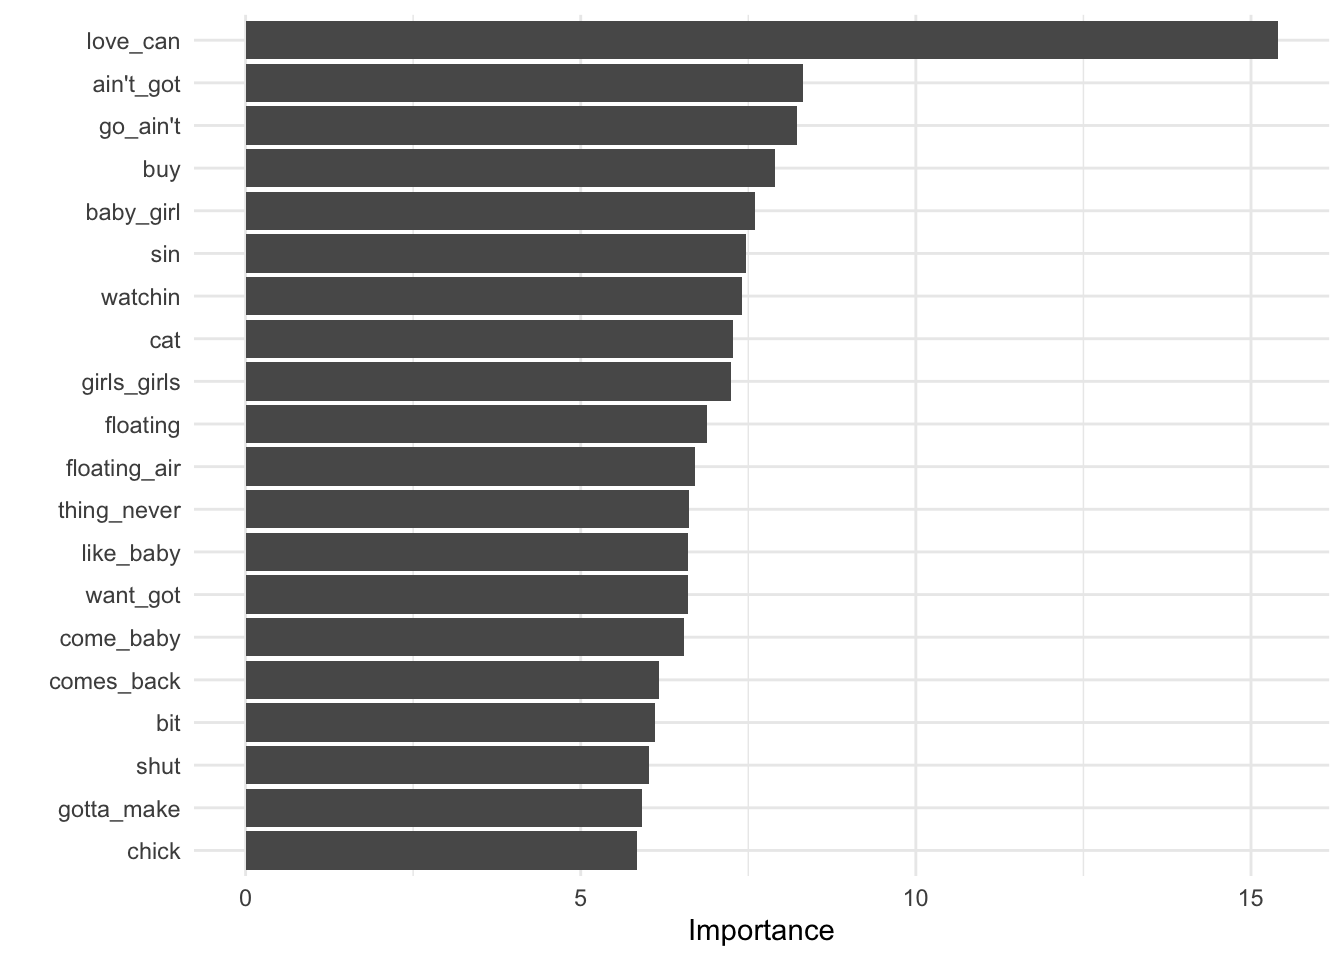
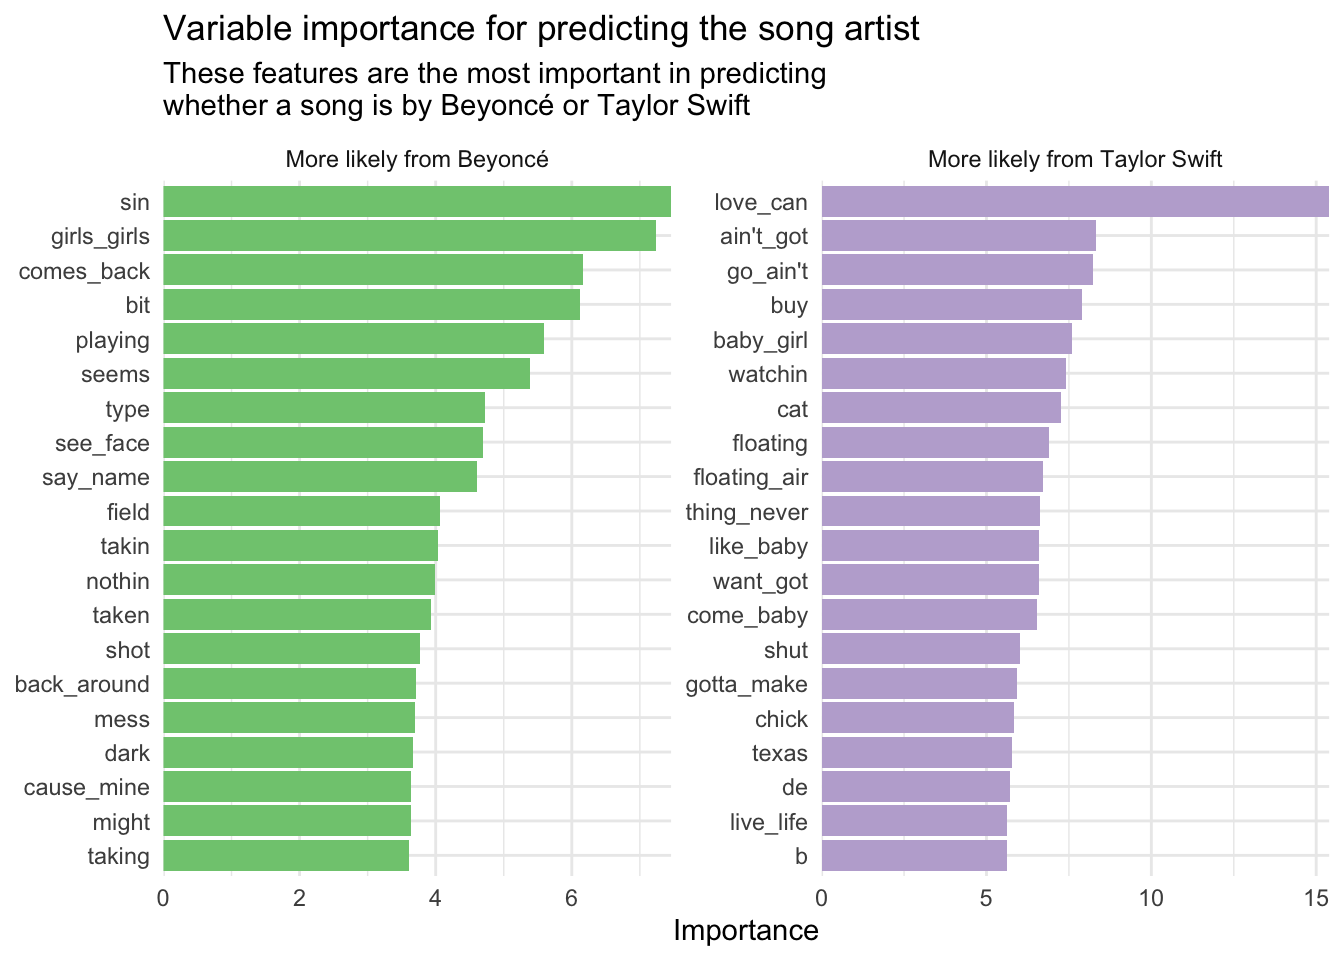
Add some analysis to the predicting song artist exercises

diff --git a/static/slides/a-deep-dive-into-r-markdown/index.html b/static/slides/a-deep-dive-into-r-markdown/index.html
@@ -95,7 +95,7 @@ youth %&gt;%
 * Render `gun-deaths.Rmd` as an HTML document
 * Add text describing the frequency polygon
 
-<div class="countdown" id="timer_61df2e58" style="right:0;bottom:0;" data-warnwhen="0">
+<div class="countdown" id="timer_61df2e54" style="right:0;bottom:0;" data-warnwhen="0">
 <code class="countdown-time"><span class="countdown-digits minutes">05</span><span class="countdown-digits colon">:</span><span class="countdown-digits seconds">00</span></code>
 </div>
 
@@ -153,7 +153,7 @@ We have data about 100798 individuals killed by guns. Only 15687 are older than 
 * Set `echo = FALSE` as a global option
 * Enable caching as a global option and render the document. Look at the file structure for the cache. Now render the document again. Does it run faster?
 
-<div class="countdown" id="timer_61df2d7f" style="right:0;bottom:0;" data-warnwhen="0">
+<div class="countdown" id="timer_61df2e7c" style="right:0;bottom:0;" data-warnwhen="0">
 <code class="countdown-time"><span class="countdown-digits minutes">07</span><span class="countdown-digits colon">:</span><span class="countdown-digits seconds">00</span></code>
 </div>
 
@@ -233,7 +233,7 @@ output:
 * Use the `"cerulean"` theme
 * Modify the figures so they are 8x6
 
-<div class="countdown" id="timer_61df2cb7" style="right:0;bottom:0;" data-warnwhen="0">
+<div class="countdown" id="timer_61df2e17" style="right:0;bottom:0;" data-warnwhen="0">
 <code class="countdown-time"><span class="countdown-digits minutes">07</span><span class="countdown-digits colon">:</span><span class="countdown-digits seconds">00</span></code>
 </div>
 
@@ -277,7 +277,7 @@ rmarkdown::render("my-document.Rmd", output_format = "all")
 * Render `gun-deaths.Rmd` as both an HTML document and a PDF document
     * If you do not have `\(\LaTeX\)` installed, render as an HTML document and a Word document
 
-<div class="countdown" id="timer_61df2c6b" style="right:0;bottom:0;" data-warnwhen="0">
+<div class="countdown" id="timer_61df2d2d" style="right:0;bottom:0;" data-warnwhen="0">
 <code class="countdown-time"><span class="countdown-digits minutes">05</span><span class="countdown-digits colon">:</span><span class="countdown-digits seconds">00</span></code>
 </div>
 

diff --git a/content/notes/predicting-song-artist/index.md b/content/notes/predicting-song-artist/index.md
@@ -38,7 +38,13 @@ usethis::use_course("uc-cfss/predicting-song-artist")
 
 {{% /callout %}}
 
+{{< figure src="beyonce-taylor-swift.jpeg" caption="Beyoncé and Taylor Swift at the 2009 MTV Video Music Awards." >}}
+
+Beyoncé and Taylor Swift are two iconic singer/songwriters from the past twenty years. While they have achieved worldwide recognition for their contributions to music, they also have quite diverse musical genres and themes. For example, much of Taylor Swift's early work is commonly associated with [love and heartbreak](https://en.wikipedia.org/wiki/Taylor_Swift#Songwriting), while Beyoncé's career has been noted for many compositions surrounding [female-empowerment](https://en.wikipedia.org/wiki/Beyonc%C3%A9#Songwriting). Based purely on the lyrics, can we predict if a song is by Beyoncé or Taylor Swift?
+
 ## Import data
+
+Our data comes from [#TidyTuesday](https://github.com/rfordatascience/tidytuesday/tree/master/data/2020/2020-09-29) which compiled individual song lyrics from each singer's discography as of September 29, 2020. Here we import the data files and do some light cleaning to standardize each file.^[Importantly, the Beyoncé lyrics are originally stored as one row per line per song whereas we need them stored as one row per song for modeling purposes.]
 
 
 ```r
@@ -106,6 +112,24 @@ taylor_swift_clean <- taylor_swift_lyrics %>%
 # combine into single data file
 lyrics <- bind_rows(beyonce_clean, taylor_swift_clean) %>%
   mutate(artist = factor(artist))
+lyrics
+```
+
+```
+## # A tibble: 523 × 3
+##    artist  song_title                         lyrics                            
+##    <fct>   <chr>                              <chr>                             
+##  1 Beyoncé Ego (Remix) (Ft. Kanye West)       "I got a big ego (Ha ha ha) I’m s…
+##  2 Beyoncé Irreplaceable (Rap Version) (Ft. … "To the left To the left To the l…
+##  3 Beyoncé Smash Into You                     "Head down As I watch my feet tak…
+##  4 Beyoncé Cards Never Lie (Ft. Rah Digga & … "The cards never lie, my last bre…
+##  5 Beyoncé If Looks Could Kill (You Would Be… "Sweetness flowing like a faucet,…
+##  6 Beyoncé The Last Great Seduction (Ft. Mek… "You know you really, really, rea…
+##  7 Beyoncé Check on It (LP Version) (Ft. Sli… "Swizz Beatz DC, Destiny Child (S…
+##  8 Beyoncé Crazy in Love (Ft. JAY-Z)          "Yes! So crazy right now! Most in…
+##  9 Beyoncé Déjà Vu (Ft. JAY-Z)                "Bass (Uh) Hi-hat (Uh) 808 (Uh) J…
+## 10 Beyoncé Me, Myself & I (Remix) (Ft. Ghost… "Ahh, ahh, ahh all the ladies if …
+## # … with 513 more rows
 ```
 
 ## Preprocess the dataset for modeling
@@ -116,6 +140,8 @@ lyrics <- bind_rows(beyonce_clean, taylor_swift_clean) %>%
 - Split the training set into 10 cross-validation folds
 
 {{< spoiler text="Click for the solution" >}}
+
+[`rsample`](/notes/resampling/) is the go-to package for this resampling.
 
 
 ```r
@@ -152,7 +178,7 @@ lyrics_folds <- vfold_cv(data = lyrics_train, strata = artist)
         )
         ```
         
-- Downsample the observations so there are an equal number of songs by Beyoncé and Taylor Swift in the analysis set
+- [Downsample](/notes/supervised-text-classification/#concerns-regarding-multiclass-classification) the observations so there are an equal number of songs by Beyoncé and Taylor Swift in the analysis set
 
 {{< spoiler text="Click for the solution" >}}
 
@@ -272,38 +298,11 @@ conf_mat_resampled(x = ranger_cv, tidy = FALSE) %>%
 
 <img src="{{< blogdown/postref >}}index_files/figure-html/ranger-metrics-2.png" width="672" />
 
+Overall the random forest model is reasonable at distinguishing Beyoncé from Taylor Swift based purely on the lyrics. A ROC AUC value of 0.9491533 is pretty good for a binary classification task. We can also see the model more accurately predicts Beyoncé's songs compared to Taylor Swift. Part of this is because Beyoncé's catalog is much larger (391 songs compared to only 132 for Taylor Swift), but this should have been accounted for through the downsampling. Even after this procedure, the model still has better sensitivity to Beyoncé.
+
 {{< /spoiler >}}
 
-### Variable importance
 
-Describe a variable importance plot and interpret the results. Don't expect students to write this themselves
-
-
-```r
-# fit the random forest model using the full training set and evaluate using the test set
-ranger_final <- ranger_workflow %>%
-  last_fit(lyrics_split)
-collect_metrics(ranger_final)
-```
-
-```
-## # A tibble: 2 × 4
-##   .metric  .estimator .estimate .config             
-##   <chr>    <chr>          <dbl> <chr>               
-## 1 accuracy binary         0.771 Preprocessor1_Model1
-## 2 roc_auc  binary         0.925 Preprocessor1_Model1
-```
-
-```r
-# generate variable importance plot
-ranger_final %>%
-  # extract the underlying parsnip model fit
-  extract_fit_parsnip() %>%
-  # draw the variable importance plot
-  vip()
-```
-
-<img src="{{< blogdown/postref >}}index_files/figure-html/ranger-vip-1.png" width="672" />
 
 ## Penalized regression
 
@@ -438,6 +437,8 @@ show_best(x = glmnet_tune, metric = "roc_auc")
 ## 5 0.0000113        0 roc_auc binary     0.884    10  0.0268 Preprocessor1_Model…
 ```
 
+Based on the ROC AUC, any penalty parameter with a mixture of `0` provides the optimal model performance. Though compared to the random forest model, the penalized regression approach consistently generates lower ROC AUC scores. This is likely because penalized regression models are a form of generalized linear models which assume linear, additive relationships between the predictors (i.e. n-grams) and the outcome of interest. Random forests are built from decision trees which are highly interactive and non-linear, so they allow for more flexible relationships between the predictors and outcome.
+
 {{< /spoiler >}}
 
 ### Fit the best model
@@ -467,24 +468,60 @@ collect_metrics(glmnet_final)
 ## 2 roc_auc  binary         0.859 Preprocessor1_Model1
 ```
 
+Not surprisingly the test set performance is slightly lower than the cross-validated metrics, however it still offers decent performance.
+
+0.8593074
+
 {{< /spoiler >}}
 
 ### Variable importance
 
-What were the most important 20 n-grams to predicting Beyoncé or Taylor Swift?
+Beyond predictive power, we can analyze which n-grams contribute most strongly to the model's predictions. Here we use the [`vip`](https://koalaverse.github.io/vip/index.html) and `vi()` to calculate the importance score for each n-gram, then visualize them using a bar plot.
 
 
 ```r
-# which n-grams were most important to generating predictions?
-glmnet_final %>%
-  extract_fit_parsnip() %>%
-  vip(num_features = 20)
+# extract parnsip model fit
+glmnet_imp <- extract_fit_parsnip(glmnet_final) %>%
+  # calculate variable importance for the specific penalty parameter used
+  vi(lambda = glmnet_best$penalty)
+
+# clean up the data frame for visualization
+glmnet_imp %>%
+  mutate(
+    Sign = case_when(
+      Sign == "POS" ~ "More likely from Beyoncé",
+      Sign == "NEG" ~ "More likely from Taylor Swift"
+    ),
+    Importance = abs(Importance)
+  ) %>%
+  group_by(Sign) %>%
+  # extract 20 most important n-grams for each artist
+  slice_max(order_by = Importance, n = 20) %>%
+  ggplot(mapping = aes(
+    x = Importance,
+    y = fct_reorder(Variable, Importance),
+    fill = Sign
+  )) +
+  geom_col(show.legend = FALSE) +
+  scale_x_continuous(expand = c(0, 0)) +
+  scale_fill_brewer(type = "qual") +
+  facet_wrap(facets = vars(Sign), scales = "free") +
+  labs(
+    y = NULL,
+    title = "Variable importance for predicting the song artist",
+    subtitle = "These features are the most important in predicting\nwhether a song is by Beyoncé or Taylor Swift"
+  )
 ```
 
 <img src="{{< blogdown/postref >}}index_files/figure-html/glmnet-vip-1.png" width="672" />
 
+This helps provide facial validity for the model's predictions. Not surprisingly, most of the n-grams relevant to Taylor Swift involve "love" and "baby", whereas "girls girls" is likely generalized from "Run the World (Girls)".
+
+{{< youtube id="VBmMU_iwe6U" title="Beyoncé - Run the World (Girls) (Official Video)" >}}
+
 ## Acknowledgments
 
+- Exercise inspired by the [#TidyTuesday challenge on September 29, 2020](https://github.com/rfordatascience/tidytuesday/tree/master/data/2020/2020-09-29).
 
 ## Session Info
 
@@ -539,7 +576,6 @@ devtools::session_info()
 ##  ellipsis       0.3.2      2021-04-29 [1] CRAN (R 4.1.0)
 ##  evaluate       0.14       2019-05-28 [1] CRAN (R 4.1.0)
 ##  fansi          0.5.0      2021-05-25 [1] CRAN (R 4.1.0)
-##  farver         2.1.0      2021-02-28 [1] CRAN (R 4.1.0)
 ##  fastmap        1.1.0      2021-01-25 [1] CRAN (R 4.1.0)
 ##  fastmatch      1.1-3      2021-07-23 [1] CRAN (R 4.1.0)
 ##  FNN            1.1.3      2019-02-15 [1] CRAN (R 4.1.0)
@@ -551,7 +587,6 @@ devtools::session_info()
 ##  future.apply   1.8.1      2021-08-10 [1] CRAN (R 4.1.1)
 ##  generics       0.1.1      2021-10-25 [1] CRAN (R 4.1.1)
 ##  ggplot2      * 3.3.5      2021-06-25 [1] CRAN (R 4.1.1)
-##  glmnet       * 4.1-3      2021-11-02 [1] CRAN (R 4.1.1)
 ##  globals        0.14.0     2020-11-22 [1] CRAN (R 4.1.0)
 ##  glue           1.6.0      2021-12-17 [1] CRAN (R 4.1.1)
 ##  gower          0.2.2      2020-06-23 [1] CRAN (R 4.1.0)
@@ -561,7 +596,6 @@ devtools::session_info()
 ##  hardhat        0.1.6      2021-07-14 [1] CRAN (R 4.1.0)
 ##  haven          2.4.3      2021-08-04 [1] CRAN (R 4.1.1)
 ##  here           1.0.1      2020-12-13 [1] CRAN (R 4.1.0)
-##  highr          0.9        2021-04-16 [1] CRAN (R 4.1.0)
 ##  hms            1.1.1      2021-09-26 [1] CRAN (R 4.1.1)
 ##  htmltools      0.5.2      2021-08-25 [1] CRAN (R 4.1.1)
 ##  httr           1.4.2      2020-07-20 [1] CRAN (R 4.1.0)
@@ -571,7 +605,6 @@ devtools::session_info()
 ##  jquerylib      0.1.4      2021-04-26 [1] CRAN (R 4.1.0)
 ##  jsonlite       1.7.2      2020-12-09 [1] CRAN (R 4.1.0)
 ##  knitr          1.37       2021-12-16 [1] CRAN (R 4.1.1)
-##  labeling       0.4.2      2020-10-20 [1] CRAN (R 4.1.0)
 ##  lattice        0.20-45    2021-09-22 [1] CRAN (R 4.1.2)
 ##  lava           1.6.10     2021-09-02 [1] CRAN (R 4.1.1)
 ##  lhs            1.1.3      2021-09-08 [1] CRAN (R 4.1.1)
@@ -580,7 +613,7 @@ devtools::session_info()
 ##  lubridate      1.8.0      2021-10-07 [1] CRAN (R 4.1.1)
 ##  magrittr       2.0.1      2020-11-17 [1] CRAN (R 4.1.0)
 ##  MASS           7.3-54     2021-05-03 [1] CRAN (R 4.1.0)
-##  Matrix       * 1.3-4      2021-06-01 [1] CRAN (R 4.1.2)
+##  Matrix         1.3-4      2021-06-01 [1] CRAN (R 4.1.2)
 ##  memoise        2.0.1      2021-11-26 [1] CRAN (R 4.1.1)
 ##  mlr            2.19.0     2021-02-22 [1] CRAN (R 4.1.0)
 ##  modeldata    * 0.1.1      2021-07-14 [1] CRAN (R 4.1.0)
@@ -603,7 +636,6 @@ devtools::session_info()
 ##  ps             1.6.0      2021-02-28 [1] CRAN (R 4.1.0)
 ##  purrr        * 0.3.4      2020-04-17 [1] CRAN (R 4.1.0)
 ##  R6             2.5.1      2021-08-19 [1] CRAN (R 4.1.1)
-##  ranger       * 0.13.1     2021-07-14 [1] CRAN (R 4.1.0)
 ##  RANN           2.6.1      2019-01-08 [1] CRAN (R 4.1.0)
 ##  Rcpp           1.0.7      2021-07-07 [1] CRAN (R 4.1.0)
 ##  readr        * 2.1.1      2021-11-30 [1] CRAN (R 4.1.1)
@@ -611,7 +643,7 @@ devtools::session_info()
 ##  recipes      * 0.1.17     2021-09-27 [1] CRAN (R 4.1.1)
 ##  remotes        2.4.2      2021-11-30 [1] CRAN (R 4.1.1)
 ##  reprex         2.0.1      2021-08-05 [1] CRAN (R 4.1.1)
-##  rlang        * 0.4.12     2021-10-18 [1] CRAN (R 4.1.1)
+##  rlang          0.4.12     2021-10-18 [1] CRAN (R 4.1.1)
 ##  rmarkdown      2.11       2021-09-14 [1] CRAN (R 4.1.1)
 ##  ROSE           0.0-4      2021-06-14 [1] CRAN (R 4.1.0)
 ##  rpart          4.1-15     2019-04-12 [1] CRAN (R 4.1.0)
@@ -622,9 +654,7 @@ devtools::session_info()
 ##  sass           0.4.0      2021-05-12 [1] CRAN (R 4.1.0)
 ##  scales       * 1.1.1      2020-05-11 [1] CRAN (R 4.1.0)
 ##  sessioninfo    1.2.2      2021-12-06 [1] CRAN (R 4.1.1)
-##  shape          1.4.6      2021-05-19 [1] CRAN (R 4.1.0)
 ##  SnowballC      0.7.0      2020-04-01 [1] CRAN (R 4.1.0)
-##  stopwords    * 2.3        2021-10-28 [1] CRAN (R 4.1.1)
 ##  stringi        1.7.6      2021-11-29 [1] CRAN (R 4.1.1)
 ##  stringr      * 1.4.0      2019-02-10 [1] CRAN (R 4.1.1)
 ##  survival       3.2-13     2021-08-24 [1] CRAN (R 4.1.2)
@@ -643,7 +673,7 @@ devtools::session_info()
 ##  unbalanced     2.0        2015-06-26 [1] CRAN (R 4.1.0)
 ##  usethis        2.1.5      2021-12-09 [1] CRAN (R 4.1.1)
 ##  utf8           1.2.2      2021-07-24 [1] CRAN (R 4.1.0)
-##  vctrs        * 0.3.8      2021-04-29 [1] CRAN (R 4.1.0)
+##  vctrs          0.3.8      2021-04-29 [1] CRAN (R 4.1.0)
 ##  vip          * 0.3.2      2020-12-17 [1] CRAN (R 4.1.0)
 ##  withr          2.4.3      2021-11-30 [1] CRAN (R 4.1.1)
 ##  workflows    * 0.2.4      2021-10-12 [1] CRAN (R 4.1.1)
